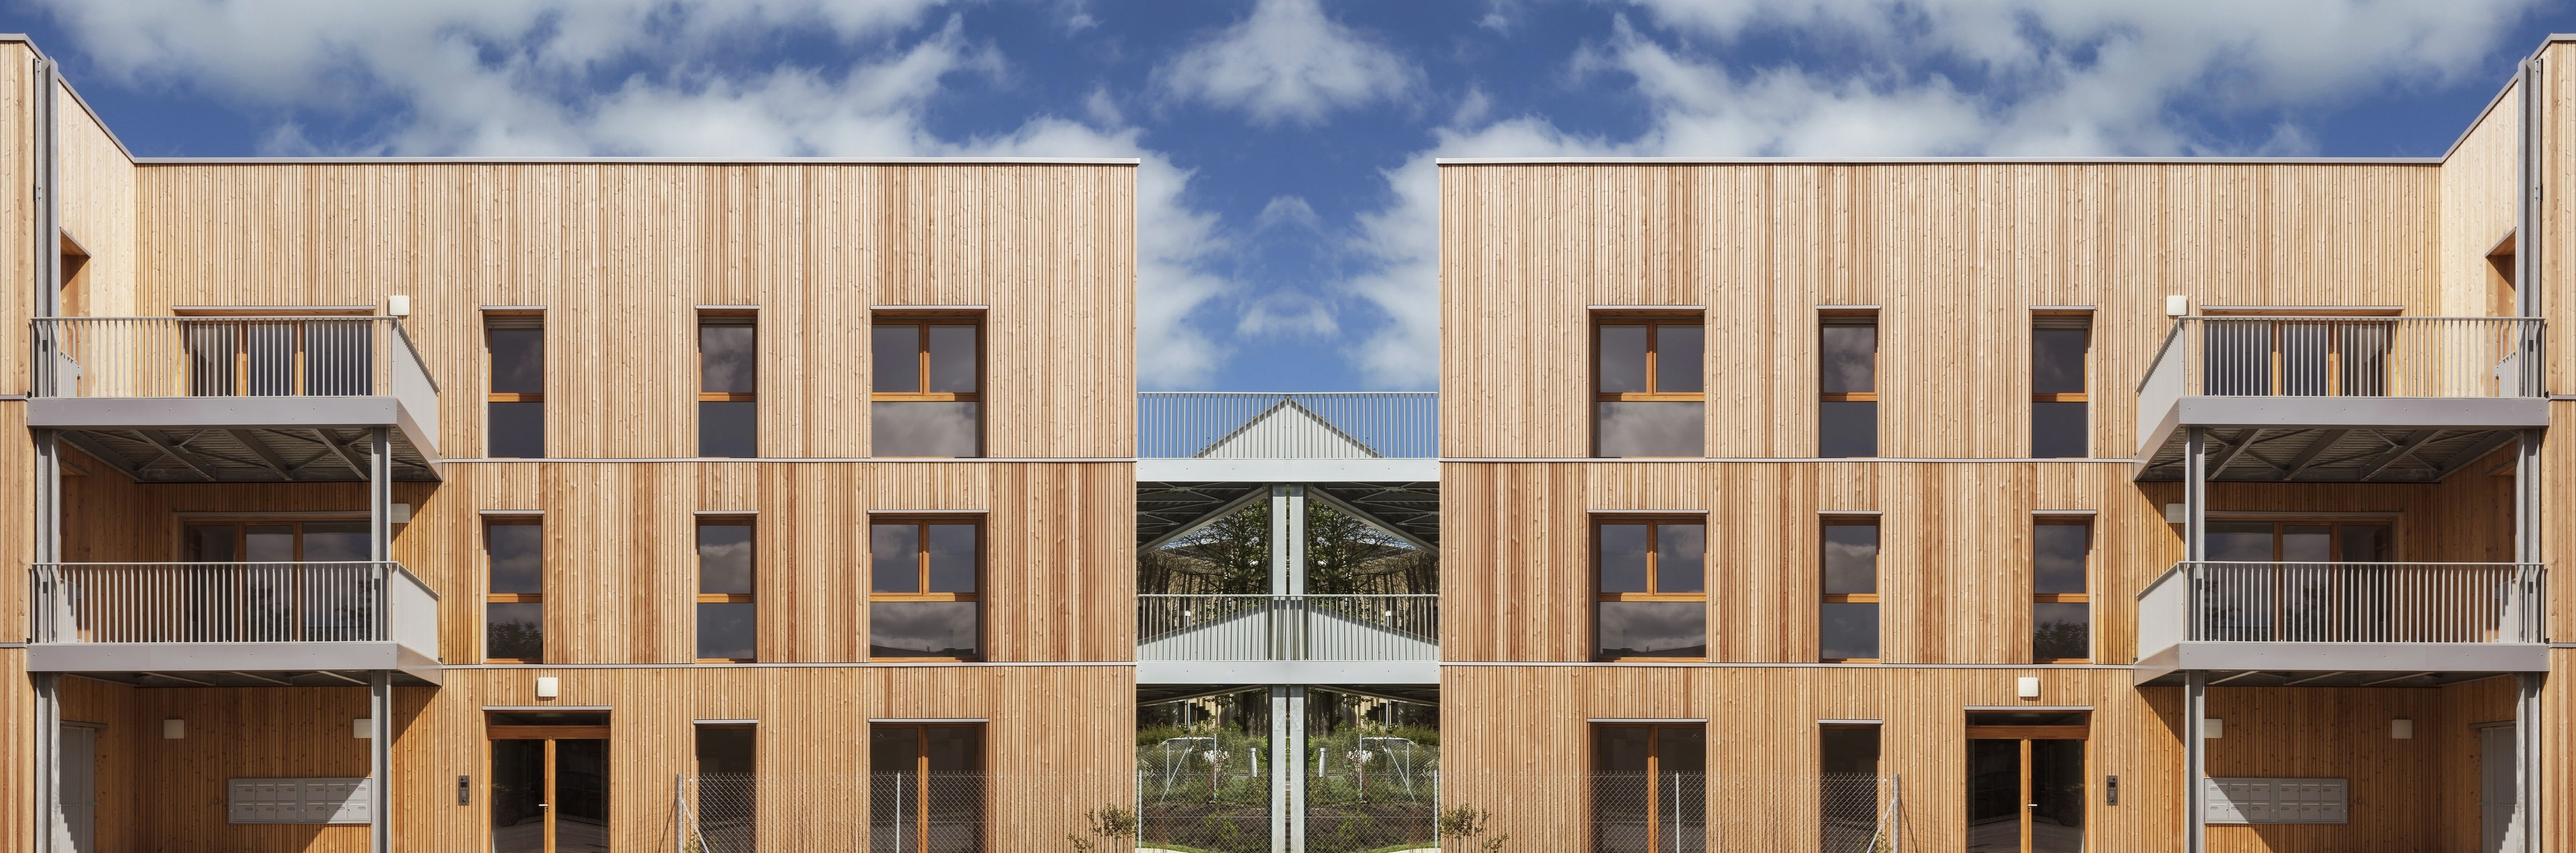
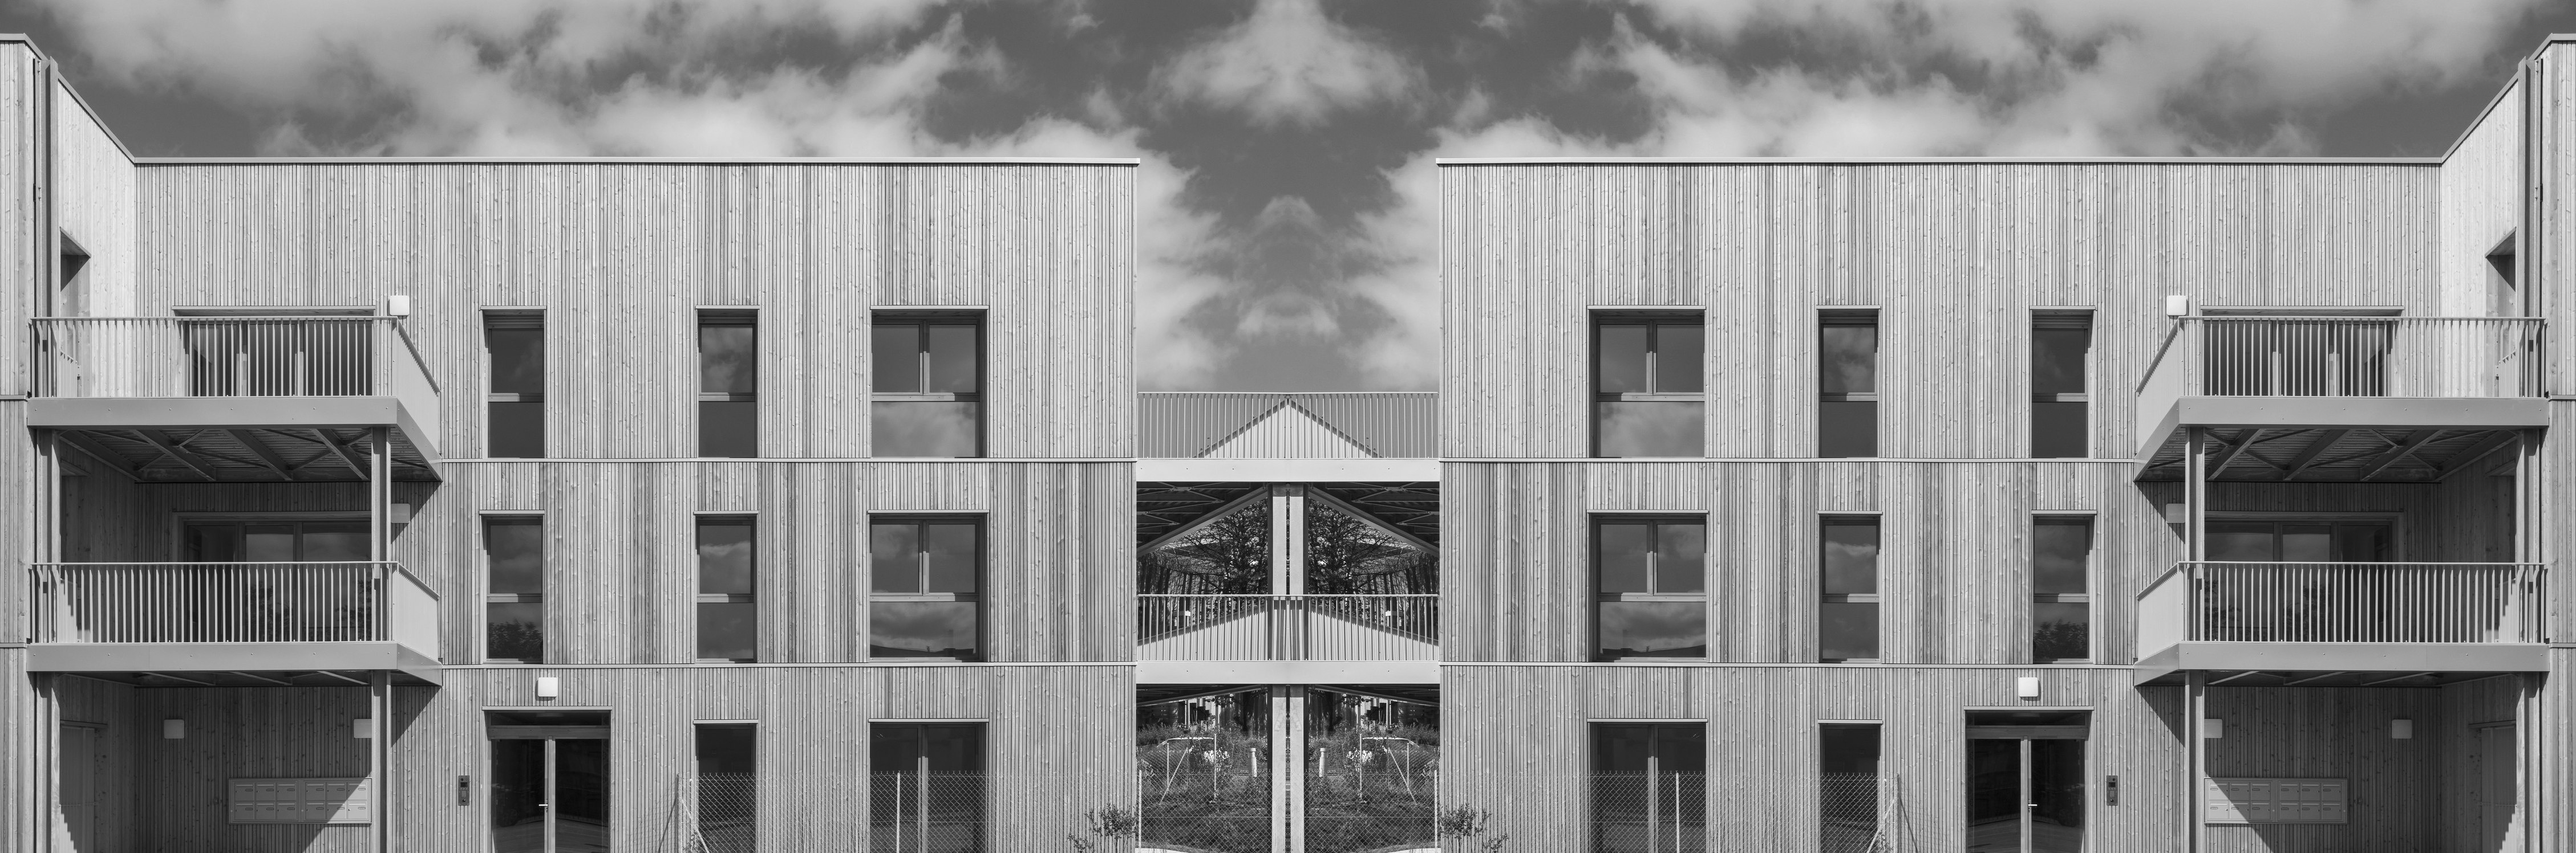
Force le rafraîchissement du cache et fiabilise le calque de ciel
- Ajoute un paramètre de version (?v=3) sur css/style.css et les
  images du calque de ciel, pour forcer les navigateurs/CDN à
  recharger ces fichiers plutôt que de servir une version encore en
  cache depuis les déploiements précédents.
- La texture de ciel est désormais directement enregistrée en noir et
  blanc (au lieu d'un filtre CSS grayscale appliqué à l'affichage),
  ce qui supprime une combinaison mask-image + filter potentiellement
  fragile sur certains moteurs de rendu.

Claude-Session: https://claude.ai/code/session_01HokbPAEQRy36d6UYd3ZJJY

diff --git a/index.html b/index.html
@@ -5,7 +5,7 @@
 <meta name="viewport" content="width=device-width, initial-scale=1.0">
 <title>maast.a — Agence d'architecture</title>
 <meta name="description" content="MAAST, agence d'architecture. Logement collectif, équipements publics et réhabilitation — découvrez nos réalisations.">
-<link rel="stylesheet" href="css/style.css">
+<link rel="stylesheet" href="css/style.css?v=3">
 </head>
 <body>
 
@@ -25,8 +25,8 @@
   <img src="assets/hero-amiens.jpg" alt="maast.a — façade bois d'une résidence à Amiens" style="object-position: center 38%;">
   <div class="hero-sky" aria-hidden="true">
     <div class="hero-sky-track">
-      <img class="hero-sky-img" src="assets/hero-sky-tile.jpg" alt="">
-      <img class="hero-sky-img" src="assets/hero-sky-tile.jpg" alt="">
+      <img class="hero-sky-img" src="assets/hero-sky-tile.jpg?v=3" alt="">
+      <img class="hero-sky-img" src="assets/hero-sky-tile.jpg?v=3" alt="">
     </div>
   </div>
   <a class="hero-content js-transition" href="projects.html" aria-label="Voir les projets">

diff --git a/css/style.css b/css/style.css
@@ -226,8 +226,8 @@ img { display: block; max-width: 100%; }
   inset: 0;
   overflow: hidden;
   pointer-events: none;
-  -webkit-mask-image: url('../assets/hero-sky-mask.png');
-  mask-image: url('../assets/hero-sky-mask.png');
+  -webkit-mask-image: url('../assets/hero-sky-mask.png?v=3');
+  mask-image: url('../assets/hero-sky-mask.png?v=3');
   -webkit-mask-size: cover;
   mask-size: cover;
   -webkit-mask-position: center 38%;
@@ -240,7 +240,6 @@ img { display: block; max-width: 100%; }
   display: flex;
   height: 100%;
   width: max-content;
-  filter: grayscale(100%);
   animation: hero-sky-scroll 70s linear infinite;
 }
 

diff --git a/projects.html b/projects.html
@@ -5,7 +5,7 @@
 <meta name="viewport" content="width=device-width, initial-scale=1.0">
 <title>Projets — maast.a</title>
 <meta name="description" content="Les 18 projets de l'agence MAAST : logement collectif, équipements publics, réhabilitation.">
-<link rel="stylesheet" href="css/style.css">
+<link rel="stylesheet" href="css/style.css?v=3">
 </head>
 <body>
 

diff --git a/project.html b/project.html
@@ -5,7 +5,7 @@
 <meta name="viewport" content="width=device-width, initial-scale=1.0">
 <title>Projet — maast.a</title>
 <meta name="description" content="Détail d'un projet de l'agence MAAST.">
-<link rel="stylesheet" href="css/style.css">
+<link rel="stylesheet" href="css/style.css?v=3">
 </head>
 <body>
 
